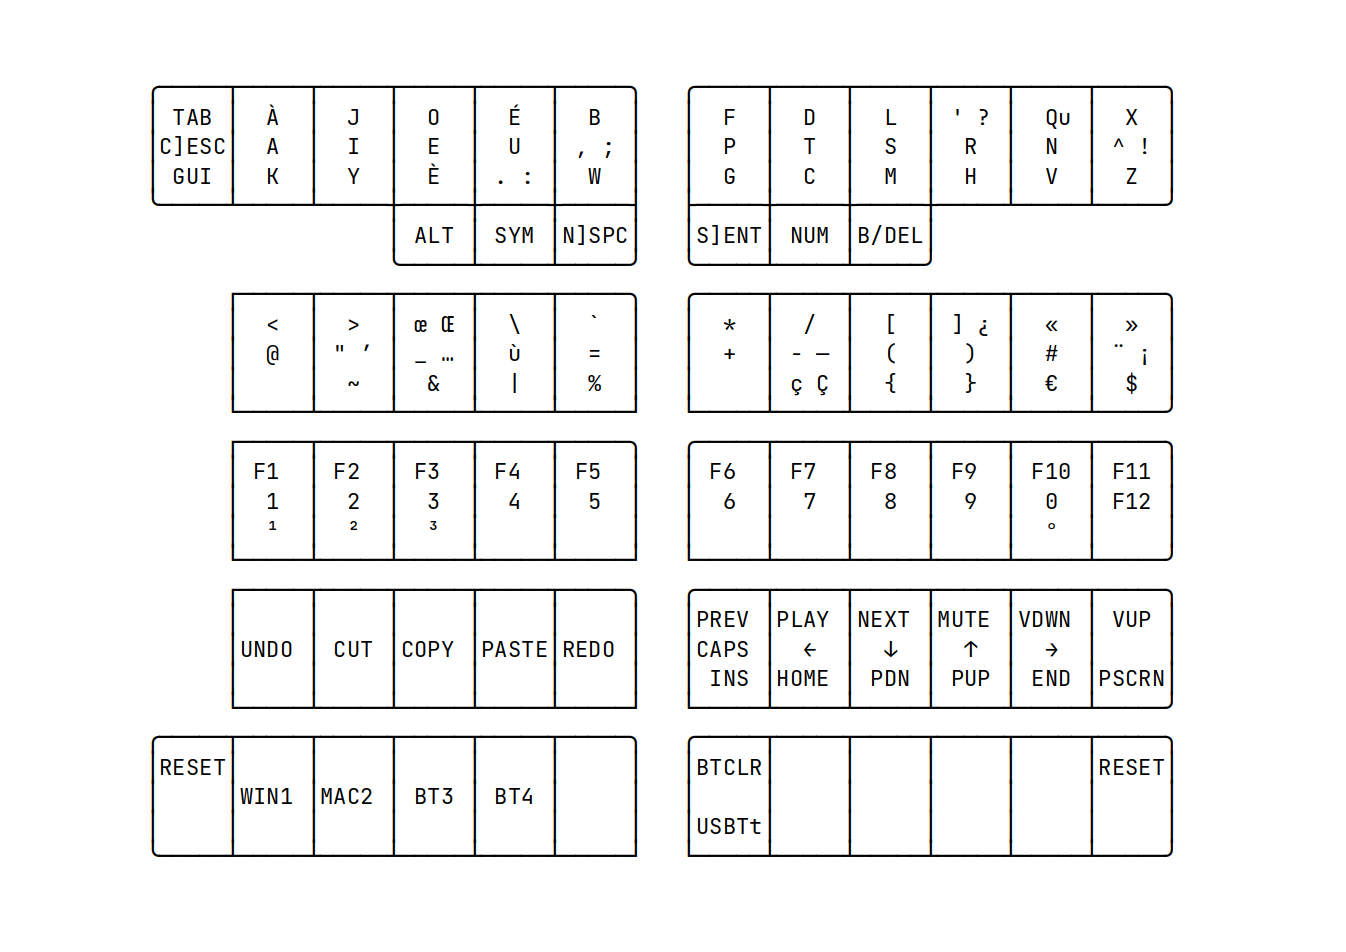
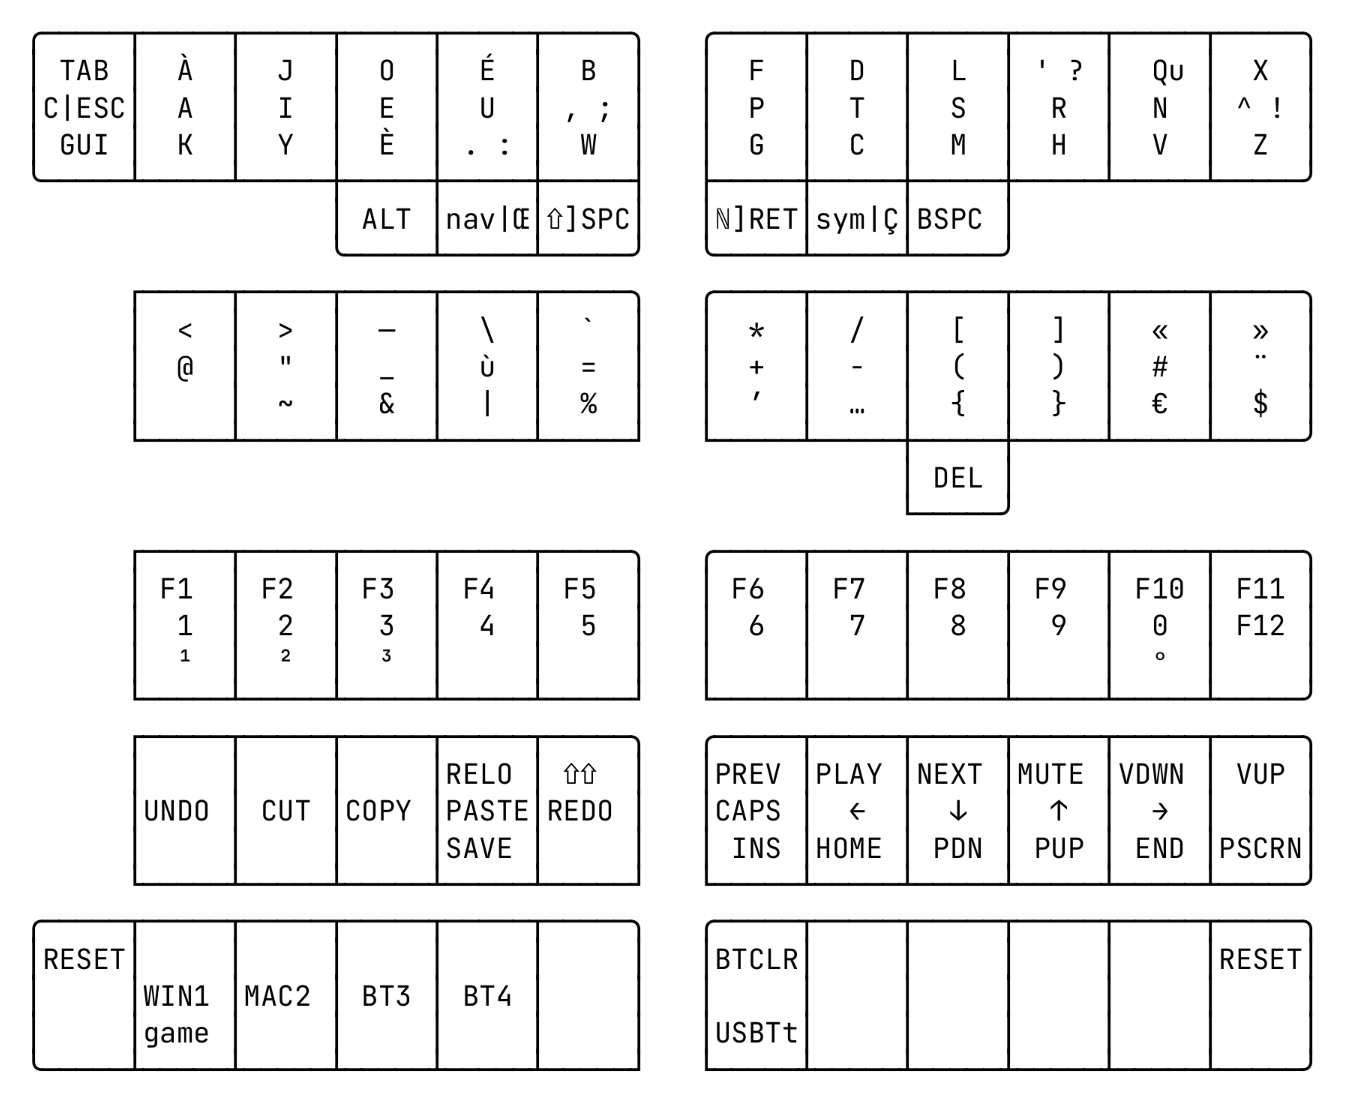
oe and cced on default layer and tap dances

Changed region(s): [[0.0312, 0.0, 0.9673, 0.9748], [0.9673, 0.3655, 0.9985, 0.396], [0.9673, 0.0305, 0.9985, 0.0609]]

diff --git a/config/node_free.h b/config/node_free.h
@@ -2,19 +2,30 @@
 
 #define STRINGIFY(x) #x
 
-#define MORPH(name, k1, mod, k2) \
+#define MORPH(name, k1, modifiers, k2) \
 / { \
   behaviors { \
     name: name { \
       compatible = "zmk,behavior-mod-morph"; \
       #binding-cells = <0>; \
       bindings = <k1>, <k2>; \
-      mods = <(MOD_##mod)>; \
+      mods = <(modifiers)>; \
     }; \
   }; \
 };
 
-#define MORPH_UP(name, k1, k2) MORPH(name, k1, LSFT, k2)
+#define TAPDANCE(name, ...) \
+/ { \
+  behaviors { \
+    name: name {  \
+      compatible = "zmk,behavior-tap-dance"; \
+      #binding-cells = <0>; \
+      bindings = __VA_ARGS__; \
+    }; \
+  }; \
+};
+
+#define MORPH_UP(name, k1, k2) MORPH(name, k1, MOD_LSFT|MOD_RSFT, k2)
 
 #define MACRO(...) \
 / { \

diff --git a/config/layers.h b/config/layers.h
@@ -38,7 +38,7 @@ COND_LAYER(MAC NAV, MAC_NAV)
 // Bluetooth & Keyboard
 #define ADM 12
 
-COND_LAYER(SYM NUM, ADM)
+COND_LAYER(NAV SYM, ADM)
 
 
 // Gaming
